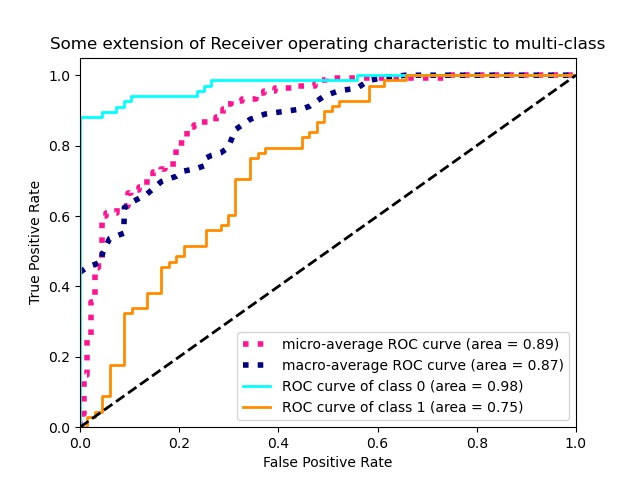
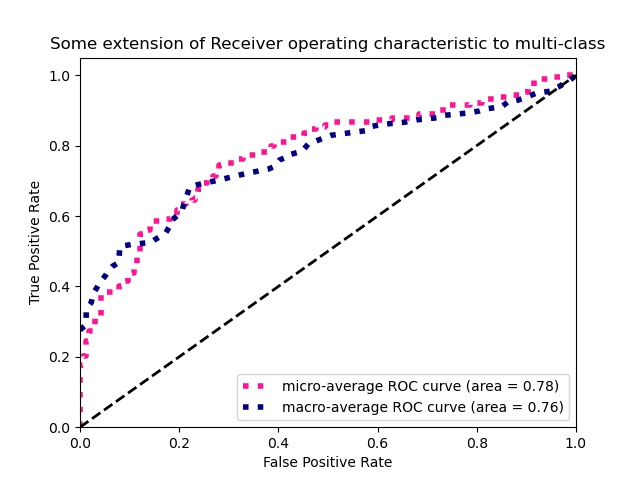
增加训练集测试机划分

Changed region(s): [[0.125, 0.125, 0.9062, 0.9062], [0.375, 0.6875, 0.9062, 0.875], [0.125, 0.1875, 0.3125, 0.2812]]

diff --git a/bit_pytorch/train.py b/bit_pytorch/train.py
@@ -90,8 +90,8 @@ def mktrainval(args, logger):
     train_set = DogCat('G:/赵天祜/kaggle_DogsVSCats/train/', transform=train_tx, train=True,test = False)
     valid_set = DogCat('G:/赵天祜/kaggle_DogsVSCats/test/', transform=val_tx, train=True, test= False)
   elif args.dataset == "lung":
-    train_set = DogCat('E:/data/train/', transform=train_tx, train=True,test = False)
-    valid_set = DogCat('E:/data/test/', transform=val_tx, train=True, test= False)
+    train_set = DogCat('E:/data/train_1/', transform=train_tx, train=True,test = False)
+    valid_set = DogCat('E:/data/test_1/', transform=val_tx, train=True, test= False)
   else:
     raise ValueError(f"Sorry, we have not spent time implementing the "
                      f"{args.dataset} dataset in the PyTorch codebase. "
@@ -216,11 +216,11 @@ def run_eval(model, data_loader, device, chrono, logger, step):
                  ''.format(roc_auc_dict["macro"]),
            color='navy', linestyle=':', linewidth=4)
 
-  colors = cycle(['aqua', 'darkorange', 'cornflowerblue'])
-  for i, color in zip(range(num_class), colors):
-    plt.plot(fpr_dict[i], tpr_dict[i], color=color, lw=lw,
-             label='ROC curve of class {0} (area = {1:0.2f})'
-                   ''.format(i, roc_auc_dict[i]))
+  # colors = cycle(['aqua', 'darkorange', 'cornflowerblue'])
+  # for i, color in zip(range(num_class), colors):
+  #   plt.plot(fpr_dict[i], tpr_dict[i], color=color, lw=lw,
+  #            label='ROC curve of class {0} (area = {1:0.2f})'
+  #                  ''.format(i, roc_auc_dict[i]))
   plt.plot([0, 1], [0, 1], 'k--', lw=lw)
   plt.xlim([0.0, 1.0])
   plt.ylim([0.0, 1.05])

diff --git a/bit_pytorch/dataset.py b/bit_pytorch/dataset.py
@@ -22,9 +22,9 @@ class DogCat(data.Dataset):
         if self.test:
             imgs = sorted(imgs, key=lambda x: int(x.split('.')[-2].split('/')[-1]))
         else:
-            # imgs = sorted(imgs, key=lambda x: int(x.split('.')[-2].split('-')[0].split('/')[-1]))
+            imgs = sorted(imgs, key=lambda x: int(x.split('.')[-2].split('-')[0].split('/')[-1]))
 
-            imgs = sorted(imgs, key=lambda x: int(x.split('.')[-2]))
+            # imgs = sorted(imgs, key=lambda x: int(x.split('.')[-2]))
         imgs_num = len(imgs)
 
         if self.test:
@@ -63,8 +63,8 @@ class DogCat(data.Dataset):
         if self.test:
             label = int(self.imgs[index].split('.')[-2].split('/')[-1])
         else:
-            # label = int(img_path.split('.')[-2].split('-')[-1])
-            label = 1 if 'dog' in img_path.split('/')[-1] else 0
+            label = int(img_path.split('.')[-2].split('-')[-1])
+            # label = 1 if 'dog' in img_path.split('/')[-1] else 0
         data_pre = Image.open(img_path).convert('RGB')
         data = self.transform(data_pre)
         return data, label

diff --git a/data_division.py b/data_division.py
@@ -1,0 +1,20 @@
+from sklearn.model_selection import train_test_split
+import os
+from shutil import copy
+from sys import exit
+#data:需要进行分割的数据集
+#random_state:设置随机种子，保证每次运行生成相同的随机数
+#test_size:将数据分割成训练集的比例
+root = 'E:/data/train/'
+data = [0,2,1,3,1,3,1]
+imgs = [os.path.join(root, img) for img in os.listdir(root)]
+train_set, test_set = train_test_split(imgs, test_size=0.2, random_state=42)
+print(test_set,train_set)
+destination_file = 'E:/data/train_1/'
+destination_file2 = 'E:/data/test_1/'
+for i in train_set:
+    source_file = i
+    copy(source_file, destination_file )
+for j in test_set:
+    source_file = j
+    copy(source_file, destination_file2)

diff --git a/bit_hyperrule.py b/bit_hyperrule.py
@@ -39,8 +39,9 @@ def get_mixup(dataset_size):
 
 def get_schedule(dataset_size):
   if dataset_size <= 20_000:
-    # return [100, 200, 300, 400, 500]
-    return [50, 100, 150, 200, 250]
+    return [100, 200, 300, 400, 500]
+    # return [50,80,110,140,160]
+    # return [50, 100, 150, 200, 250]
   elif dataset_size <= 500_000:
 
     # return [100, 200, 300, 400, 500]

diff --git a/0000.py b/0000.py
@@ -27,3 +27,5 @@ a ='E:/data/train/1-baojinchun-8_644BF14F8B1740C190FBDF7EE12CEB36-70-0.png'
 b = int(a.split('.')[-2].split('-')[-1])
 
 print(b)
+
+str = 'python -m bit_pytorch.train --name cifar10_date_lung_  --model BiT-M-R50x1 --logdir /tmp/bit_logs --dataset lung --datadir data  --batch 512 --batch_split 2'
